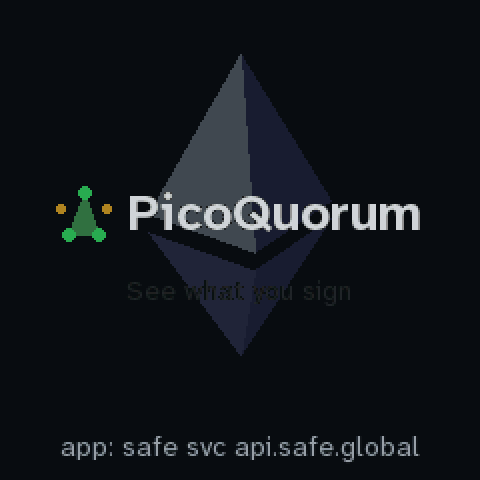
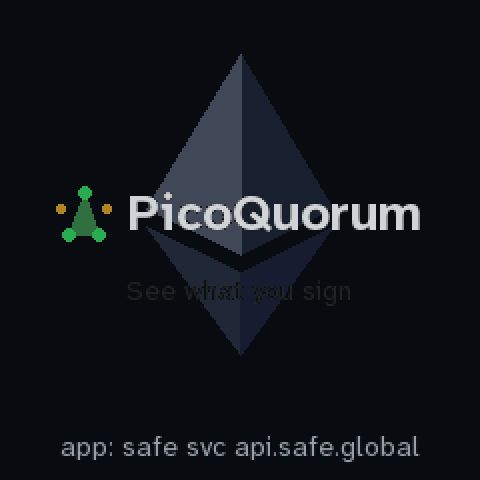
Walkthrough and buildlog: the diamond lands; where the boot time went and what is remembered

diff --git a/docs/quorum-ui/v2/README.md b/docs/quorum-ui/v2/README.md
@@ -28,6 +28,10 @@ original idea, drawn the light way: the green triangle becomes the top of the Et
 spins until the whole logo is there. Then PicoQuorum, with a small version of the mark to its left,
 fades in over the logo, which keeps turning. And no pauses: as quick as it can go.
 
+**Update, same day:** on the board it ran fast and smooth until the name came up, then stuttered
+and froze. That was the console starting up behind it (below), so the diamond now **slows to a
+stop on the logo's pose** as the name fades in, rather than freezing mid-turn.
+
 <img src="boot/mark-eth.gif" width="60%">
 
 | | |
@@ -39,7 +43,7 @@ fades in over the logo, which keeps turning. And no pauses: as quick as it can g
 | <img src="boot/mark-eth-084.png"> | <img src="boot/mark-eth-092.png"> |
 | **2.5 s: all Ethereum blue,** and the lower pyramid rises in. | **2.8 s: the logo,** spinning. |
 | <img src="boot/mark-eth-110.png"> | <img src="boot/mark-eth-150.png"> |
-| **3.3 s:** it slows, grows and dims, and **the small mark and PicoQuorum fade in over it.** | **4.5 s:** the tagline, and the logo still turning slowly behind. It turns for as long as the boot screen is up. |
+| **3.3 s:** it slows, grows and dims, and **the small mark and PicoQuorum fade in over it.** | **4.5 s:** the tagline, and the logo at rest on its own pose behind. |
 
 The small mark is the boot screen in miniature: five owners, three signed in green, two amber,
 their triangle.
@@ -51,14 +55,23 @@ On every panel (this is `BOOT_ART = "still"`, the end of it drawn at once):
 - **Length:** the logo is spinning by 2.8 s and the name is up by 3.4 s. Splash holds 3.7 s after
   the 0.3 s black (the corner version held 5.3 s and the plain mark 3.8 s). Any key still skips.
 - **Cost:** each frame repaints the box the diamond was in and the box it's in now. While it's
-  big and turning that's up to half the panel (58 KB), so this is heavier than the plain mark: 21%
-  of what whole frames would send, against 6%. That's still about 5× lighter than the orbit. Once
-  it slows behind the name, a frame only goes out when it has turned another whole degree.
+  big and turning that's up to half the panel (58 KB), so this is heavier than the plain mark: 15%
+  of what whole frames would send, against 6%. That's still about 6× lighter than the orbit. Once
+  it lands, frames send nothing but the name's fade and the status line.
+- **Why it stuttered on the board, and a faster boot:** the animation finishes as WiFi joins, about
+  5.3 s after power-on. Then the console starts: `main.py`'s imports (1.1 s), and the chip checks.
+  With the Trust M those were 6.7 s, all without a frame. Two pure-Python P-256 verifies of its
+  factory certificate and key binding took 4.7 s, and the owner address (two keccaks) took 0.7 s.
+  Both are now worked out once and remembered by a hash of exactly the bytes they're computed from
+  (`tmproof.txt`, `owners.txt`). The same chip gives the same answer at once, and any change works
+  them out again. The console is up about 7.8 s after power-on, down from about 13 s.
+  `log.txt` has a `boot ms:` line each boot with where the time went.
 - **The corner version is gone:** its pictures are replaced by these.
 
 **Questions for you:**
-1. **The turn:** about two-thirds of a turn while it becomes the logo, then 30° a second behind the
-   name. Faster, slower?
+1. **The turn:** three-quarters of a turn while it becomes the logo, coming to rest as the name
+   fades in. Faster, slower? It could keep turning, but on the board that means a freeze while the
+   console starts, unless the startup itself is reworked to hand back frames.
 2. **Behind the name:** it dims to about a third. Brighter, so the logo reads more, or darker, so
    the name reads more?
 

diff --git a/buildlog/2026-09-30-boot-mark.md b/buildlog/2026-09-30-boot-mark.md
@@ -48,3 +48,14 @@ stay amber, PicoQuorum under it) as flat shapes, with the real status on the bot
   it is big and turning; every frame matches a fresh paint on all three panels. One catch: the
   small mark's points were rounded after shifting into the tile, so tiles disagreed by a pixel;
   they are rounded on the screen first, as everything else is.
+- **On the board, then faster** (same evening). Smooth until the name came up, then a stutter and a
+  freeze: the console's start ran after the animation without a frame. A `boot ms:` line in
+  log.txt now says where the time goes. With the Trust M: art at 1.7 s, WiFi at 5.3 s, then
+  imports 1.1 s, fonts 0.1 s, chip probe 6.7 s (the certificate and the binding: two pure-Python
+  P-256 verifies, 2.3 s each; the owner address: two keccaks, 0.7 s), the rest 0.4 s. Both are
+  pure functions of bytes that don't change, so each is remembered by the SHA-256 of exactly its
+  inputs (tmproof.txt, owners.txt, both kept across pushes): the probe is 0.9 s, and the console
+  is up at 7.8 s instead of about 13. The chip's own VerifySign was not used for the factory
+  checks: they ask whether the chip is genuine, and a counterfeit would say yes. The diamond now
+  slows to a stop on the logo's pose (315°) as the name fades in, so the startup after it shows
+  a still screen, not a frozen spin.
